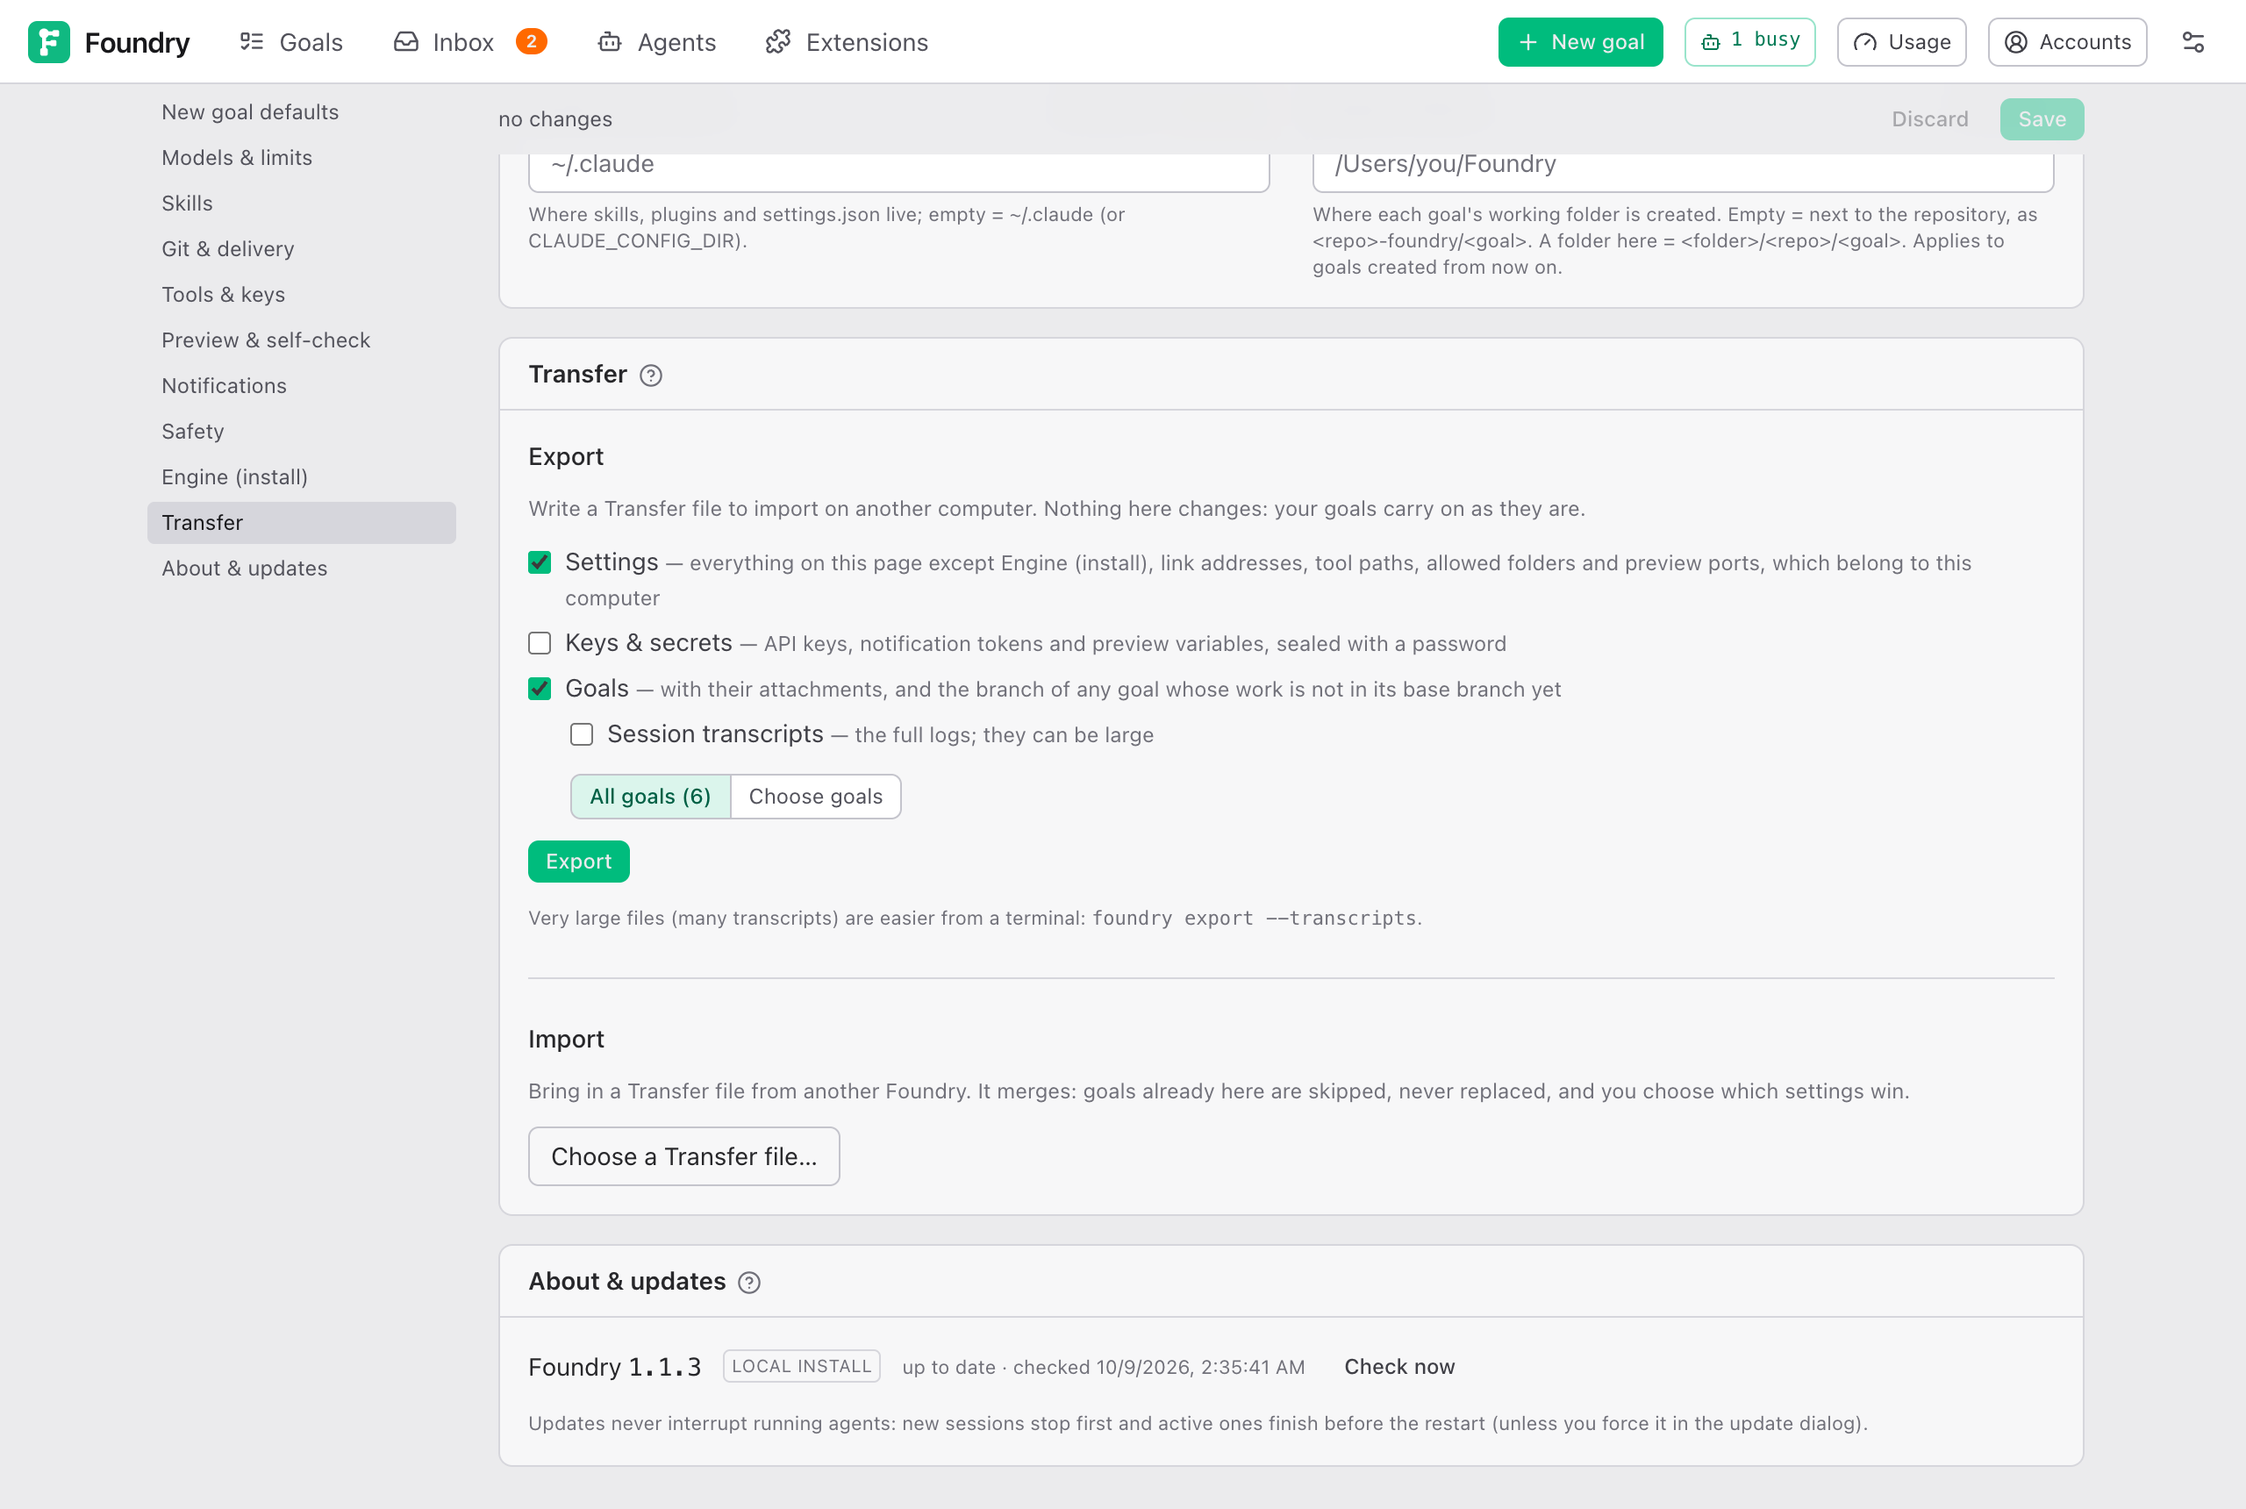
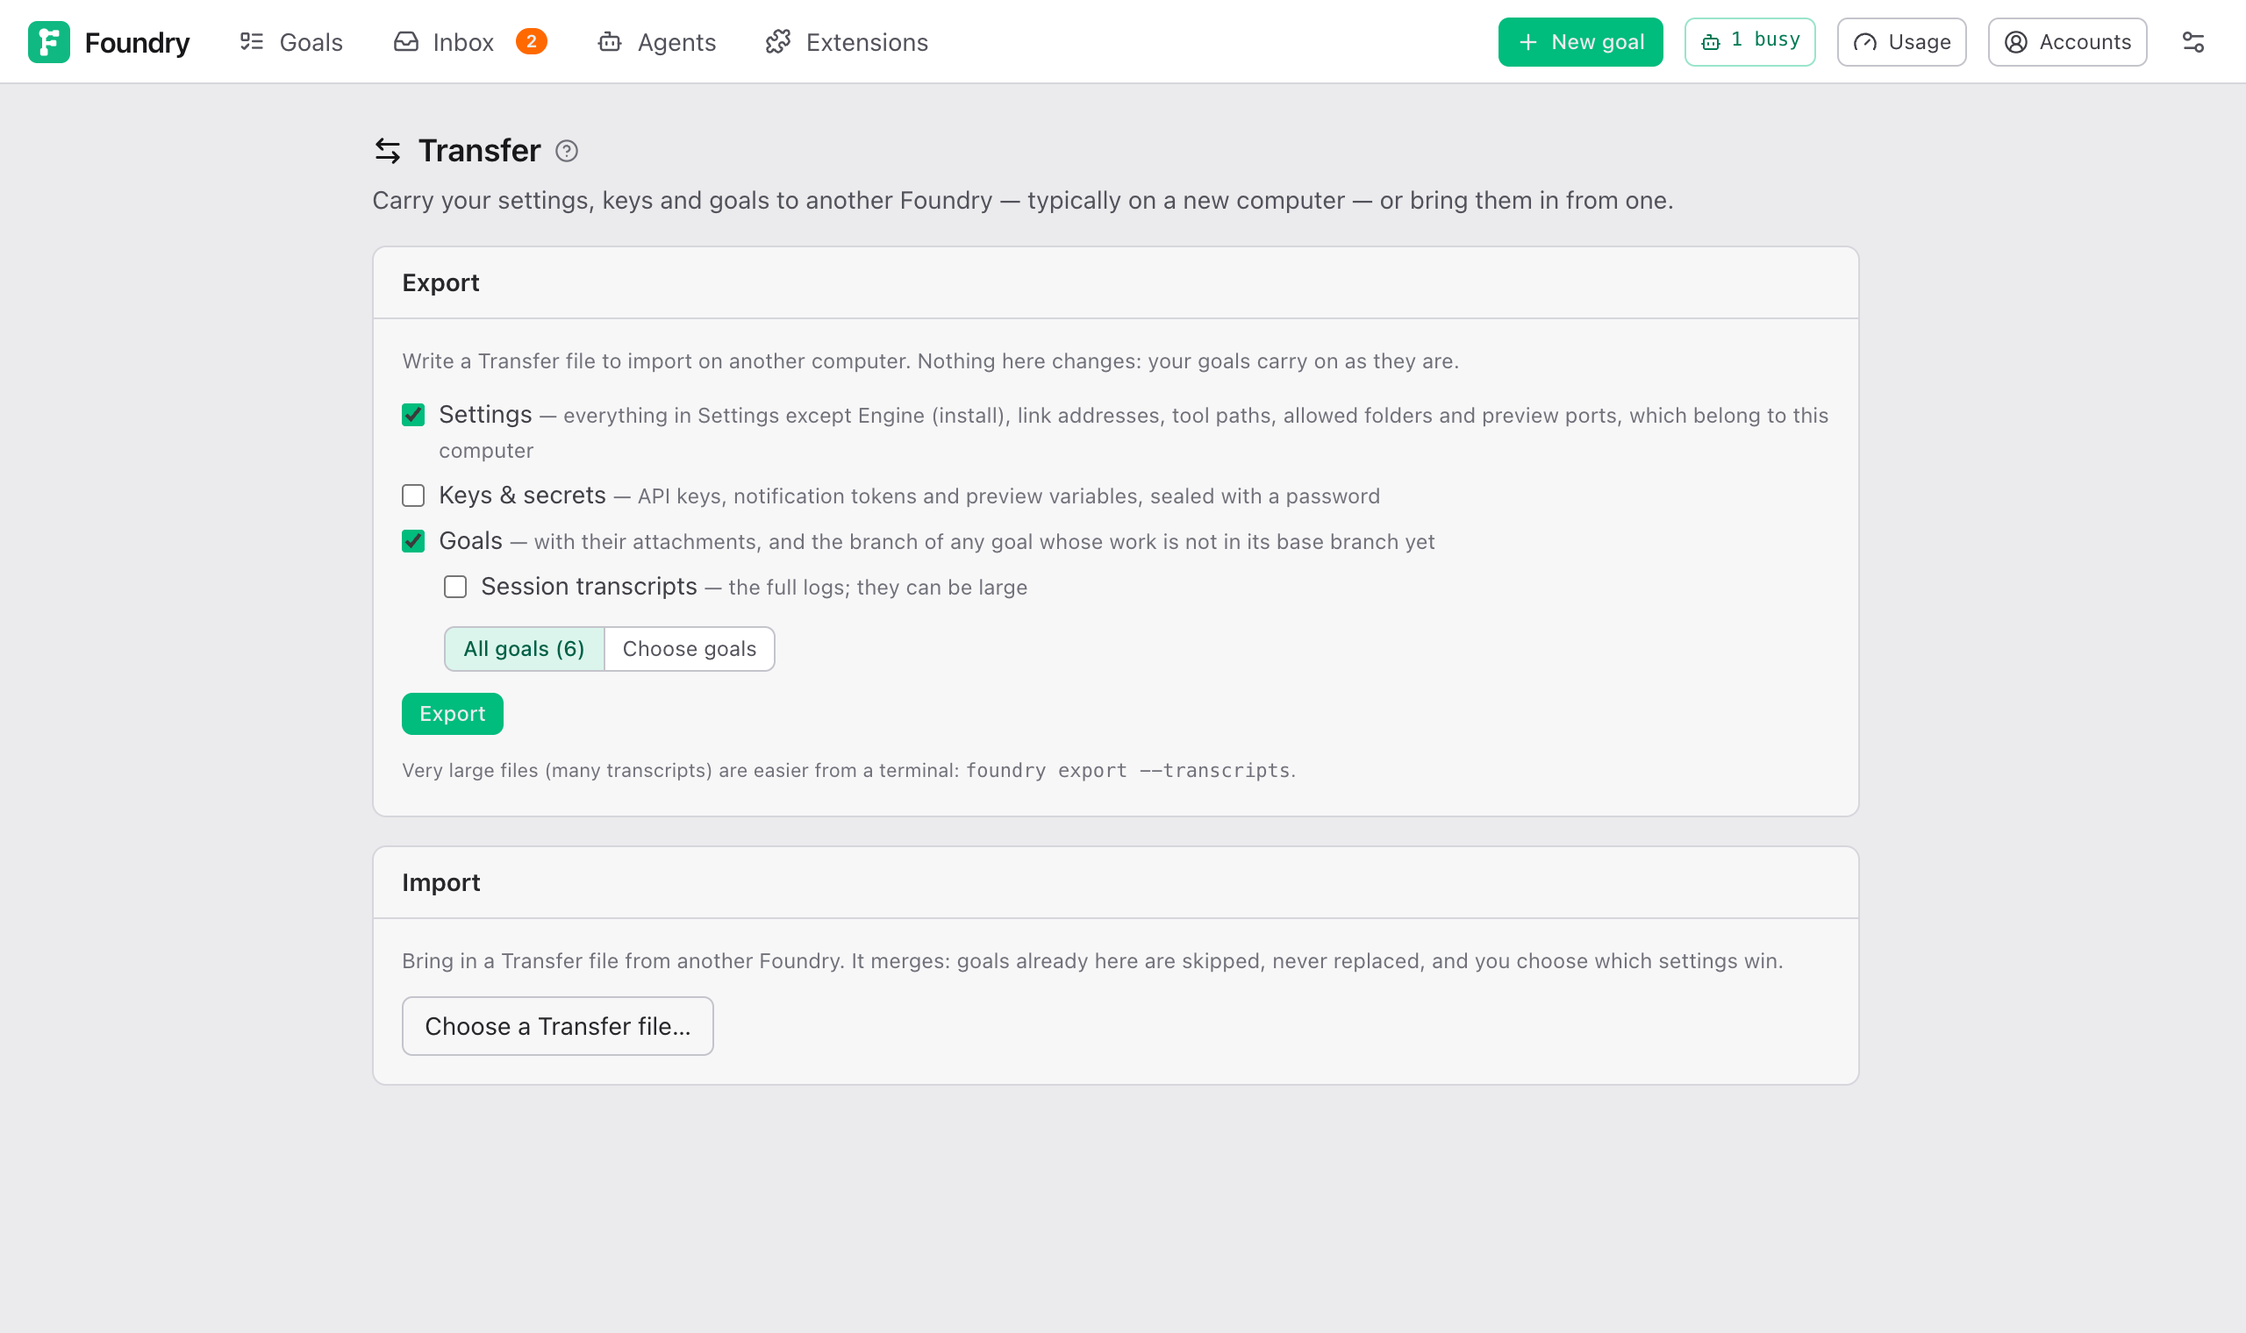
docs(guide): Moving to a new computer gets its own page
Transfer left Settings, so its explanation leaves Settings explained for a page of its own in the reading order (English and 中文), with a screenshot of the Transfer page; the README mentions Transfer and the version in the ⚙ menu.

diff --git a/packages/server/src/guide.ts b/packages/server/src/guide.ts
@@ -2,7 +2,7 @@ import { existsSync, readFileSync, readdirSync } from 'node:fs';
 import { join } from 'node:path';
 
 /** The user guide, in reading order. Pages not listed here are appended alphabetically. */
-export const GUIDE_ORDER = ['index', 'your-first-goal', 'answering-the-interview', 'approving-the-brief', 'while-it-runs', 'when-foundry-needs-you', 'getting-the-result', 'settings', 'costs-and-usage', 'faq'];
+export const GUIDE_ORDER = ['index', 'your-first-goal', 'answering-the-interview', 'approving-the-brief', 'while-it-runs', 'when-foundry-needs-you', 'getting-the-result', 'settings', 'costs-and-usage', 'moving-to-a-new-computer', 'faq'];
 
 /** The first page is README.md so GitHub shows it when docs/guide/ is opened; the app calls it "index". */
 export const guideFile = (slug: string) => (slug === 'index' ? 'README' : slug);

diff --git a/docs/guide/settings.md b/docs/guide/settings.md
@@ -295,35 +295,6 @@ Settings for whoever installed Foundry. Leave them unless you know why.
 - **Codex binary** and **Codex home**: the Codex executable and native account/configuration directory. Empty uses PATH and `CODEX_HOME` or `~/.codex`. Restart needed. The launch profile is fixed; choose each goal’s coding agent on New goal.
 - **Progress folders**: where each goal's folder is created. Empty puts it next to your project as `<project>-foundry/<goal>`. A folder here gives `<folder>/<project>/<goal>` instead. Applies to goals created from now on.
 
-## Transfer
-
-Moves what this Foundry knows to another one, typically on a new computer. You export a file here and import it there. Nothing on this computer changes when you export: goals carry on as they are.
-
-![Settings → Transfer: Export with Settings and Goals ticked, and Import waiting for a file](images/settings-transfer.png)
-
-**Export** ticks what goes into the file:
-
-- **Settings**: everything on this page, except what belongs to this computer: the **Engine (install)** section, the link address and tailnet name of **Notifications**, the markitdown path, the **Folder browser roots** and the preview ports.
-- **Keys & secrets**: the API keys, the notification tokens and the variables you entered on goals' Preview cards. They are sealed with a password you type twice. Without it they cannot be read, and Foundry cannot recover it.
-- **Goals**: **All goals**, or **Choose goals** one by one. A goal that follows one you left out says so, with a link to add it. Each goal brings its history, attachments and screenshots. When a goal's branch has work the base branch lacks, finished or not, the branch comes too. An unfinished goal also brings the files Git ignores in its progress folder, such as generated images and style samples.
-- **Session transcripts**: the full session logs of those goals. They can be large; `foundry export --transcripts` in a terminal suits a big file better.
-
-**Import** starts with **Choose a Transfer file…**. Foundry reads it and shows:
-
-- **Goals**: each one new, *already here* or *deleted here*. Only new goals can be ticked. A goal already here is never replaced.
-- **Repositories**: for each project the goals named, its folder on this computer. A folder at the same path with the same remote is filled in. Leave one empty to choose it later on the goal's page.
-- **Settings that differ**: **Use imported** or **Keep mine**, section by section. Imported is preselected.
-- **Keys & secrets**: tick **Bring Keys & secrets in**, type the password and press **Unlock** to see each key masked next to yours. Tick **keep mine** on any key you want to keep. Preview variables are added next to the ones already set here.
-
-**Import** brings them in and lists what came, what was skipped and why. An imported goal is history: you can read everything about it and start a Follow-up from it, but Foundry does not run, deliver or watch it. Its page has an **imported** badge and a **Came from another computer** card:
-
-![An imported goal waiting to be Reattached: where it came from, its repository to map and the Reattach button](images/goal-imported.png)
-
-- **Map repository** points it at its project folder here and puts its branch back.
-- **Reattach** (unfinished goals only, once mapped) gives it a progress folder here and carries it on. Work that was cut off when the file was written starts again in a fresh session, and the attempt it lost is given back. If the goal is still running on the other computer, the two copies now go separate ways: stop it there first.
-
-Sign-ins, skills, MCP servers and plugins belong to each coding agent's own setup: sign in and install them on the new computer. For a complete copy of everything instead, see backup in [updates-and-backup.md](../operate/updates-and-backup.md).
-
 ## About & updates
 
 Shows the version you run and how it is installed. **Check now** asks whether a newer version exists (Foundry also checks once a day). When one exists, the button **Update to X** appears, with what changed, and a pill in the top bar.

diff --git a/docs/guide/moving-to-a-new-computer.zh.md b/docs/guide/moving-to-a-new-computer.zh.md
@@ -1,0 +1,38 @@
+# 搬到新电脑
+
+**Transfer** 把一个 Foundry 知道的东西带到另一个 Foundry，通常是在新电脑上：你的设置、key 和 goal。在旧电脑上导出一个文件，再到新电脑上导入。入口在顶栏右侧的 ⚙ 菜单：**Transfer — move to another computer**。
+
+## Export
+
+![Transfer：Export 勾选了 Settings 和 Goals，Import 等待选择文件](images/transfer.png)
+
+勾选要放进文件的内容，然后按 **Export**。文件会被下载；这台电脑上什么都不会变，goal 照常进行。
+
+- **Settings**：Settings 里的所有设置，但不包括只属于这台电脑的：**Engine (install)** 整个部分、**Notifications** 的链接地址和 tailnet 名称、markitdown 路径、**Folder browser roots** 以及预览端口。
+- **Keys & secrets**：API key、通知 token，以及你在 goal 的 Preview 卡片里填的变量。它们会用你输入两次的密码封存。没有密码就读不出来，Foundry 也无法帮你找回。
+- **Goals**：**All goals**，或者用 **Choose goals** 一个个挑。如果某个 goal 是另一个没被选中的 goal 的 Follow-up，会提示你，并附上加入它的链接。每个 goal 都会带上它的历史、附件和截图。只要 goal 的分支里有 base 分支还没有的成果，无论完成与否，分支也会一起带走。未完成的 goal 还会带上 progress folder 里被 Git 忽略的文件，例如生成的图片和风格样张。
+- **Session transcripts**：这些 goal 的完整会话日志。它们可能很大，大文件更适合在终端里用 `foundry export --transcripts`。
+
+## Import
+
+在新电脑上打开 **Transfer**，按 **Choose a Transfer file…**。Foundry 读取文件后显示：
+
+- **Goals**：每个 goal 是新的、*already here*（已经在这里）还是 *deleted here*（在这里删过）。只有新的 goal 可以勾选。已经在这里的 goal 永远不会被覆盖。
+- **Repositories**：goal 用到的每个项目在这台电脑上的文件夹。相同路径、相同 remote 的文件夹会自动填上。留空的话，可以之后在 goal 页面上再选。
+- **Settings that differ**：逐个部分选择 **Use imported** 或 **Keep mine**，默认选中导入的。
+- **Keys & secrets**：勾选 **Bring Keys & secrets in**，输入密码并按 **Unlock**，就能看到每个 key 遮掩后的样子以及你这里现有的值。想保留自己的，就在那个 key 上勾选 **keep mine**。预览变量会加在这里已有的变量旁边。
+
+按 **Import** 后导入，并列出带进来了什么、跳过了什么以及原因。
+
+## Imported goals
+
+导入的 goal 是历史记录：你可以查看它的一切，也可以从它开始一个 Follow-up，但 Foundry 不会运行、交付或盯着它。它的页面上有 **imported** 标记和一张 **Came from another computer** 卡片：
+
+![一个等待 Reattach 的导入 goal：来源、待 map 的仓库和 Reattach 按钮](images/goal-imported.png)
+
+- **Map repository** 把它指向这台电脑上的项目文件夹，并把它的分支放回去。
+- **Reattach**（只有未完成的 goal，且已经 map 之后）在这里给它建一个 progress folder 并继续进行。写出文件时被打断的工作会在新的会话里重新开始，失去的那次尝试也会还给它。如果这个 goal 在另一台电脑上还在跑，两边从此会各走各的：请先在那边停掉。
+
+## What does not travel
+
+登录、skills、MCP 服务器和插件属于各个编码智能体自己的设置：请在新电脑上登录并安装。如果你要的是完整复制所有东西，请看 [updates-and-backup.md](../operate/updates-and-backup.md) 里的备份。

diff --git a/docs/guide/moving-to-a-new-computer.md b/docs/guide/moving-to-a-new-computer.md
@@ -1,0 +1,38 @@
+# Moving to a new computer
+
+**Transfer** carries what one Foundry knows to another one, typically on a new computer: your settings, your keys and your goals. You export a file on the old computer and import it on the new one. Open it from the ⚙ menu at the right of the top bar: **Transfer — move to another computer**.
+
+## Export
+
+![Transfer: Export with Settings and Goals ticked, and Import waiting for a file](images/transfer.png)
+
+Tick what goes into the file, then press **Export**. The file downloads; nothing on this computer changes, and goals carry on as they are.
+
+- **Settings**: everything in Settings, except what belongs to this computer: the **Engine (install)** section, the link address and tailnet name of **Notifications**, the markitdown path, the **Folder browser roots** and the preview ports.
+- **Keys & secrets**: the API keys, the notification tokens and the variables you entered on goals' Preview cards. They are sealed with a password you type twice. Without it they cannot be read, and Foundry cannot recover it.
+- **Goals**: **All goals**, or **Choose goals** one by one. A goal that follows one you left out says so, with a link to add it. Each goal brings its history, attachments and screenshots. When a goal's branch has work the base branch lacks, finished or not, the branch comes too. An unfinished goal also brings the files Git ignores in its progress folder, such as generated images and style samples.
+- **Session transcripts**: the full session logs of those goals. They can be large; `foundry export --transcripts` in a terminal suits a big file better.
+
+## Import
+
+On the new computer, open **Transfer** and press **Choose a Transfer file…**. Foundry reads it and shows:
+
+- **Goals**: each one new, *already here* or *deleted here*. Only new goals can be ticked. A goal already here is never replaced.
+- **Repositories**: for each project the goals named, its folder on this computer. A folder at the same path with the same remote is filled in. Leave one empty to choose it later on the goal's page.
+- **Settings that differ**: **Use imported** or **Keep mine**, section by section. Imported is preselected.
+- **Keys & secrets**: tick **Bring Keys & secrets in**, type the password and press **Unlock** to see each key masked next to yours. Tick **keep mine** on any key you want to keep. Preview variables are added next to the ones already set here.
+
+**Import** brings them in and lists what came, what was skipped and why.
+
+## Imported goals
+
+An imported goal is history: you can read everything about it and start a Follow-up from it, but Foundry does not run, deliver or watch it. Its page has an **imported** badge and a **Came from another computer** card:
+
+![An imported goal waiting to be Reattached: where it came from, its repository to map and the Reattach button](images/goal-imported.png)
+
+- **Map repository** points it at its project folder here and puts its branch back.
+- **Reattach** (unfinished goals only, once mapped) gives it a progress folder here and carries it on. Work that was cut off when the file was written starts again in a fresh session, and the attempt it lost is given back. If the goal is still running on the other computer, the two copies now go separate ways: stop it there first.
+
+## What does not travel
+
+Sign-ins, skills, MCP servers and plugins belong to each coding agent's own setup: sign in and install them on the new computer. For a complete copy of everything instead, see backup in [updates-and-backup.md](../operate/updates-and-backup.md).

diff --git a/docs/guide/README.zh.md b/docs/guide/README.zh.md
@@ -51,6 +51,7 @@ Foundry 读你的项目，问你只有你能决定的事，然后写一份叫 **
 7. [拿到结果](./getting-the-result.zh.md)：分支、推送和 pull request，还有媒体文件。
 8. [设置说明](./settings.zh.md)：用大白话讲 Settings 的每一部分。
 9. [费用与用量](./costs-and-usage.zh.md)：哪些要花钱，怎样少花钱。
-10. [常见问题](./faq.zh.md)：常见问题的简短回答。
+10. [搬到新电脑](./moving-to-a-new-computer.zh.md)：把设置、key 和 goal 带到另一个 Foundry。
+11. [常见问题](./faq.zh.md)：常见问题的简短回答。
 
-顶栏右侧 ⚙ 菜单里的 **Help** 在 Foundry 里面直接显示本指南。同一个菜单里还有 **Settings**、**Setup** 和浅色／深色模式。
+顶栏右侧 ⚙ 菜单里的 **Help** 在 Foundry 里面直接显示本指南。同一个菜单里还有 **Settings**、**Setup**、**Transfer**、浅色／深色模式，以及你运行的版本：⚙ 按钮上的红点表示有新版本，按版本号会打开 **About & updates**。

diff --git a/docs/guide/README.md b/docs/guide/README.md
@@ -51,6 +51,7 @@ The full glossary, for the curious, is `CONTEXT.md` in the Foundry repository.
 7. [Getting the result](./getting-the-result.md): branches, pushes and pull requests, and media files.
 8. [Settings explained](./settings.md): every Settings section in plain words.
 9. [Costs and usage](./costs-and-usage.md): what costs money and how to spend less.
-10. [FAQ](./faq.md): short answers to common questions.
+10. [Moving to a new computer](./moving-to-a-new-computer.md): carrying settings, keys and goals to another Foundry.
+11. [FAQ](./faq.md): short answers to common questions.
 
-**Help** in the ⚙ menu at the right of the top bar shows this guide inside Foundry. The same menu holds **Settings**, **Setup** and the light or dark mode.
+**Help** in the ⚙ menu at the right of the top bar shows this guide inside Foundry. The same menu holds **Settings**, **Setup**, **Transfer**, the light or dark mode, and the version you run: a red dot on the ⚙ button marks a newer one, and pressing the version opens **About & updates**.
